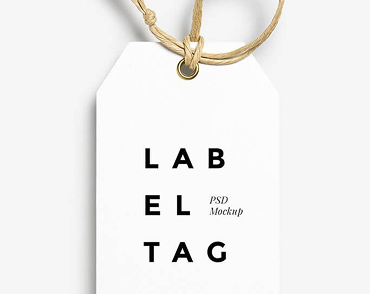
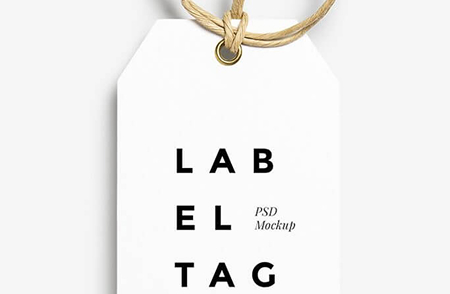
Added portfolio section to the portfolio page.

diff --git a/css/main.min.css b/css/main.min.css
@@ -1,1 +1,1 @@
-.logo{text-decoration:none}.first-word-logo{font-family:"Raleway",sans-serif;font-weight:700;font-size:26px;color:#2196f3}.second-word-logo{font-family:"Raleway",sans-serif;font-weight:700;font-size:26px;color:#000}.footer-logo{display:block;margin-bottom:20px}.footer-logo .second-word-logo{font-family:"Raleway",sans-serif;font-weight:700;font-size:26px;color:#fff}.form-button,.footer-button,.hero-button{min-width:200px;font-weight:700;font-size:16px;line-height:30px;letter-spacing:.06em;border-radius:4px;color:#fff;background-color:#2196f3;-webkit-box-shadow:0 4px 4px 0 rgba(0,0,0,.15);box-shadow:0 4px 4px 0 rgba(0,0,0,.15)}.subscribe-title,.join-in-title{display:block;margin-bottom:20px;font-size:14px;text-transform:uppercase;color:#fff}textarea:focus,.form-input:focus{outline:none;border:1px solid #2196f3}body{font-family:"Roboto",sans-serif;letter-spacing:.03em;color:#212121;background-color:#fff}.container{padding-left:15px;padding-right:15px;margin-left:auto;margin-right:auto}@media screen and (min-width: 480px){.container{width:480px}}@media screen and (min-width: 768px){.container{width:768px}}@media screen and (min-width: 1230px){.container{width:1230px}}.list{padding:0;margin:0;list-style:none}.current{color:#2196f3}.current::after{position:absolute;bottom:0;content:"";width:100%;height:4px;border-radius:2px;background:#2196f3}header{border-bottom:1px solid #ececec}header .header-nav{display:-webkit-box;display:-ms-flexbox;display:flex;-webkit-box-align:center;-ms-flex-align:center;align-items:center}.icon-menu{display:-webkit-box;display:-ms-flexbox;display:flex;margin-left:276px;margin-top:22px;margin-bottom:22px}.section-title{margin-top:0;margin-bottom:60px;font-size:36px;text-align:center}.hero{margin-bottom:94px;text-align:center}.overlay{max-width:1600px;min-height:600px;margin-left:auto;margin-right:auto;background-image:-webkit-gradient(linear, left top, right top, from(rgba(47, 48, 58, 0.8)), to(rgba(47, 48, 58, 0.8))),url("../images/hero-image.jpg");background-image:linear-gradient(to right, rgba(47, 48, 58, 0.8), rgba(47, 48, 58, 0.8)),url("../images/hero-image.jpg");background-color:#212121;background-size:cover;background-repeat:no-repeat;background-position:center}.hero-title{margin-top:0;margin-bottom:0;padding-top:200px;padding-bottom:30px;font-weight:900;font-size:44px;line-height:60px;letter-spacing:.06em;color:#fff}.hero-button{padding:10px 32px;margin-bottom:200px;cursor:pointer;border:none}.feature{margin-top:0;margin-bottom:60px}.feature-item:not(:last-child){margin-bottom:30px}.background{display:block;width:450px;height:120px;padding:25px 190px;margin-bottom:30px;background-color:#f5f4fa}.feature-title{margin-top:0;margin-bottom:10px;text-align:center;font-size:14px;text-transform:uppercase}.feature-description{margin-top:0;margin-bottom:0;font-size:14px;line-height:24px;color:#757575}@media(max-width: 1229px){.work{display:none}}.work{margin-top:0;margin-bottom:60px}.work-list{display:-webkit-box;display:-ms-flexbox;display:flex}.work-item{position:relative}.work-item+.work-item{margin-left:45px}.work-image{display:block}.work-description{position:absolute;bottom:0;display:-webkit-box;display:-ms-flexbox;display:flex;-webkit-box-align:center;-ms-flex-align:center;align-items:center;-webkit-box-pack:center;-ms-flex-pack:center;justify-content:center;width:100%;height:70px;margin-top:0;margin-bottom:0;font-weight:700;font-size:14px;text-transform:uppercase;color:#fff;background-color:rgba(47,48,58,.8)}.team{margin-bottom:60px;padding-top:60px;padding-bottom:60px;background-color:#f5f4fa}.team-unit{width:450px;height:482px;border-radius:0 0 4px 4px;-webkit-box-shadow:0 2px 1px 0 rgba(0,0,0,.2),0 1px 1px 0 rgba(0,0,0,.14),0 1px 3px 0 rgba(0,0,0,.12);box-shadow:0 2px 1px 0 rgba(0,0,0,.2),0 1px 1px 0 rgba(0,0,0,.14),0 1px 3px 0 rgba(0,0,0,.12);background-color:#fff}.team-image{margin-bottom:30px}.team-name{margin-top:0;margin-bottom:10px;font-weight:500;font-size:16px;text-align:center}.team-description{margin-top:0;margin-bottom:16px;font-size:16px;color:#757575;text-align:center}.social-networks{display:-webkit-box;display:-ms-flexbox;display:flex;-webkit-box-pack:center;-ms-flex-pack:center;justify-content:center;margin-top:0;margin-bottom:24px}.network-item+.network-item{margin-left:10px}.social-networks .link{display:-webkit-box;display:-ms-flexbox;display:flex;-webkit-box-align:center;-ms-flex-align:center;align-items:center;-webkit-box-pack:center;-ms-flex-pack:center;justify-content:center;width:44px;height:44px;-webkit-transition:color 250ms cubic-bezier(0.4, 0, 0.2, 1),background-color 250ms cubic-bezier(0.4, 0, 0.2, 1);transition:color 250ms cubic-bezier(0.4, 0, 0.2, 1),background-color 250ms cubic-bezier(0.4, 0, 0.2, 1);border-radius:50%;color:#afb1b8;background-color:#fff}.social-networks .link:hover,.social-networks .link:focus{color:#fff;background-color:#2196f3}.social-icon{fill:currentColor}.regular-customers{margin-bottom:60px}.customers-list{display:-webkit-box;display:-ms-flexbox;display:flex;-ms-flex-wrap:wrap;flex-wrap:wrap;gap:30px}.customers-item{width:calc((100% - 30px)/2)}.customer-link{display:-webkit-box;display:-ms-flexbox;display:flex;-webkit-box-align:center;-ms-flex-align:center;align-items:center;-webkit-box-pack:center;-ms-flex-pack:center;justify-content:center;width:210px;height:90px;-webkit-transition:color 250ms cubic-bezier(0.4, 0, 0.2, 1),border 250ms cubic-bezier(0.4, 0, 0.2, 1);transition:color 250ms cubic-bezier(0.4, 0, 0.2, 1),border 250ms cubic-bezier(0.4, 0, 0.2, 1);border:1px solid #afb1b8;border-radius:4px;color:#afb1b8}.customer-link:hover,.customer-link:focus{color:#2196f3;border:1px solid #2196f3}.customer-icon{fill:currentColor}.portfolio{margin-top:93px;margin-bottom:94px}.filters{display:-webkit-box;display:-ms-flexbox;display:flex;-webkit-box-pack:center;-ms-flex-pack:center;justify-content:center;margin-bottom:50px}.filter-item+.filter-item{margin-left:8px}.filters button{padding:6px 22px;-webkit-transition:color 250ms cubic-bezier(0.4, 0, 0.2, 1),background-color 250ms cubic-bezier(0.4, 0, 0.2, 1),-webkit-box-shadow 250ms cubic-bezier(0.4, 0, 0.2, 1);transition:color 250ms cubic-bezier(0.4, 0, 0.2, 1),background-color 250ms cubic-bezier(0.4, 0, 0.2, 1),-webkit-box-shadow 250ms cubic-bezier(0.4, 0, 0.2, 1);transition:box-shadow 250ms cubic-bezier(0.4, 0, 0.2, 1),color 250ms cubic-bezier(0.4, 0, 0.2, 1),background-color 250ms cubic-bezier(0.4, 0, 0.2, 1);transition:box-shadow 250ms cubic-bezier(0.4, 0, 0.2, 1),color 250ms cubic-bezier(0.4, 0, 0.2, 1),background-color 250ms cubic-bezier(0.4, 0, 0.2, 1),-webkit-box-shadow 250ms cubic-bezier(0.4, 0, 0.2, 1);text-decoration:none;font-weight:500;font-size:16px;line-height:26px;cursor:pointer;border:none;border-radius:4px;color:#212121;background-color:#f5f4fa}.filters button:hover,.filters button:focus{-webkit-box-shadow:0 2px 2px 0 rgba(0,0,0,.12),0 1px 2px 0 rgba(0,0,0,.08),0 3px 1px 0 rgba(0,0,0,.1);box-shadow:0 2px 2px 0 rgba(0,0,0,.12),0 1px 2px 0 rgba(0,0,0,.08),0 3px 1px 0 rgba(0,0,0,.1);color:#fff;background-color:#2196f3}.portfolio-list{display:-webkit-box;display:-ms-flexbox;display:flex;-ms-flex-wrap:wrap;flex-wrap:wrap}.portfolio-item{width:370px;height:404px;margin-right:45px;margin-bottom:45px}.portfolio-item:nth-child(3n){margin-right:0}.portfolio-item:nth-child(n+7){margin-bottom:0}.portfolio-link{display:block;text-decoration:none;color:inherit;-webkit-transition:-webkit-box-shadow 250ms cubic-bezier(0.4, 0, 0.2, 1);transition:-webkit-box-shadow 250ms cubic-bezier(0.4, 0, 0.2, 1);transition:box-shadow 250ms cubic-bezier(0.4, 0, 0.2, 1);transition:box-shadow 250ms cubic-bezier(0.4, 0, 0.2, 1), -webkit-box-shadow 250ms cubic-bezier(0.4, 0, 0.2, 1)}.portfolio-link:hover,.portfolio-link:focus{-webkit-box-shadow:1px 4px 6px 0 rgba(0,0,0,.16),0 4px 4px 0 rgba(0,0,0,.06),0 1px 1px 0 rgba(0,0,0,.12);box-shadow:1px 4px 6px 0 rgba(0,0,0,.16),0 4px 4px 0 rgba(0,0,0,.06),0 1px 1px 0 rgba(0,0,0,.12)}.top-card{position:relative;overflow:hidden}.portfolio-image{display:block}.portfolio-overlay{position:absolute;opacity:0;top:0;left:0;margin:0;padding:63px 24px;width:100%;height:100%;-webkit-transform:translateY(100%);transform:translateY(100%);-webkit-transition:opacity 250ms cubic-bezier(0.4, 0, 0.2, 1),-webkit-transform 250ms cubic-bezier(0.4, 0, 0.2, 1);transition:opacity 250ms cubic-bezier(0.4, 0, 0.2, 1),-webkit-transform 250ms cubic-bezier(0.4, 0, 0.2, 1);transition:opacity 250ms cubic-bezier(0.4, 0, 0.2, 1),transform 250ms cubic-bezier(0.4, 0, 0.2, 1);transition:opacity 250ms cubic-bezier(0.4, 0, 0.2, 1),transform 250ms cubic-bezier(0.4, 0, 0.2, 1),-webkit-transform 250ms cubic-bezier(0.4, 0, 0.2, 1);font-size:18px;line-height:28px;color:#fff;background:rgba(33,150,243,.9)}.portfolio-item:hover .portfolio-overlay,.portfolio-item:focus .portfolio-overlay{opacity:1;-webkit-transform:translateY(0);transform:translateY(0)}.bottom-card{padding:20px 24px;background-color:#fff;border-left:1px solid #eee;border-right:1px solid #eee;border-bottom:1px solid #eee}.portfolio-title{margin-top:0;margin-bottom:4px;font-size:18px;line-height:36px;letter-spacing:.06em}.portfolio-description{margin:0;font-size:16px;line-height:30px;color:#757575}footer{padding-top:60px;padding-bottom:60px;background-color:#2f303a}.footer-contacts{margin-bottom:60px;text-align:center}address{margin-bottom:8px;font-family:"Roboto",sans-serif;font-weight:400;font-size:14px;line-height:24px;color:#fff}.mail{margin-bottom:8px}.contacts .link{display:block;text-decoration:none;font-size:14px;line-height:24px;color:#afb1b8}.join-in{margin-bottom:60px}.join-in-title{text-align:center}.social-media{display:-webkit-box;display:-ms-flexbox;display:flex;-webkit-box-pack:center;-ms-flex-pack:center;justify-content:center}.social-media .item+.item{margin-left:10px}.social-media .link{display:-webkit-box;display:-ms-flexbox;display:flex;-webkit-box-align:center;-ms-flex-align:center;align-items:center;-webkit-box-pack:center;-ms-flex-pack:center;justify-content:center;width:44px;height:44px;-webkit-transition:background-color 250ms cubic-bezier(0.4, 0, 0.2, 1);transition:background-color 250ms cubic-bezier(0.4, 0, 0.2, 1);background-color:rgba(255,255,255,.1);border-radius:50%}.social-media .link:hover,.social-media .link:focus{background-color:#2196f3}.subscribe-title{text-align:center}.form-subscribe{width:570px}.footer-email{margin-bottom:20px;min-width:450px;min-height:50px;padding-left:16px;padding-top:15px;padding-bottom:15px;font-size:16px;line-height:20px;border:1px solid rgba(255,255,255,.3);border-radius:4px;-webkit-box-shadow:0 4px 4px 0 rgba(0,0,0,.15);box-shadow:0 4px 4px 0 rgba(0,0,0,.15);background:rgba(33,150,243,0);color:#fff}.footer-button{width:200px;position:relative;display:-webkit-box;display:-ms-flexbox;display:flex;-webkit-box-align:center;-ms-flex-align:center;align-items:center;margin-left:auto;margin-right:auto;padding-top:10px;padding-bottom:10px;padding-left:29px;text-decoration:none}.icon-send{position:absolute;top:50%;right:28px;-webkit-transform:translateY(-50%);transform:translateY(-50%)}.backdrop{position:fixed;top:0;left:0;width:100%;height:100%;opacity:1;-webkit-transition:opacity 250ms cubic-bezier(0.4, 0, 0.2, 1);transition:opacity 250ms cubic-bezier(0.4, 0, 0.2, 1);background-color:rgba(0,0,0,.2)}.backdrop.is-hidden{opacity:0;pointer-events:none}.backdrop.is-hidden .modal{-webkit-transform:translate(-50%, -50%) scale(0.9);transform:translate(-50%, -50%) scale(0.9)}.modal{position:absolute;top:50%;left:50%;min-width:528px;min-height:581px;-webkit-transform:translate(-50%, -50%) scale(1);transform:translate(-50%, -50%) scale(1);-webkit-transition:-webkit-transform 250ms cubic-bezier(0.4, 0, 0.2, 1);transition:-webkit-transform 250ms cubic-bezier(0.4, 0, 0.2, 1);transition:transform 250ms cubic-bezier(0.4, 0, 0.2, 1);transition:transform 250ms cubic-bezier(0.4, 0, 0.2, 1), -webkit-transform 250ms cubic-bezier(0.4, 0, 0.2, 1);-webkit-box-shadow:0 2px 1px 0 rgba(0,0,0,.2),0 1px 1px 0 rgba(0,0,0,.14),0 1px 3px 0 rgba(0,0,0,.12);box-shadow:0 2px 1px 0 rgba(0,0,0,.2),0 1px 1px 0 rgba(0,0,0,.14),0 1px 3px 0 rgba(0,0,0,.12);border-radius:4px;background:#fff}.link-close{display:inline-block;margin-left:490px;margin-right:8px;margin-top:8px;width:30px;height:30px;-webkit-transition:color 250ms cubic-bezier(0.4, 0, 0.2, 1);transition:color 250ms cubic-bezier(0.4, 0, 0.2, 1);color:#000;border-radius:50%}.link-close:hover,.link-close:focus{color:#2196f3}.icon-close{fill:currentColor}form{width:448px;margin-left:40px;margin-right:40px;margin-bottom:40px}.form-title{margin-top:0px;margin-bottom:30px;font-weight:700;font-size:20px;text-align:center}.form-field{position:relative;display:-webkit-box;display:-ms-flexbox;display:flex;-webkit-box-orient:vertical;-webkit-box-direction:normal;-ms-flex-direction:column;flex-direction:column;margin-bottom:28px}.form-input{width:448px;height:40px;margin:0;padding-top:11px;padding-bottom:11px;padding-left:42px;-webkit-transition:border 250ms cubic-bezier(0.4, 0, 0.2, 1);transition:border 250ms cubic-bezier(0.4, 0, 0.2, 1);border:1px solid rgba(33,33,33,.2);border-radius:4px;cursor:pointer}.form-label{position:absolute;top:50%;left:42px;-webkit-transform:translateY(-50%);transform:translateY(-50%);-webkit-transition:-webkit-transform 250ms cubic-bezier(0.4, 0, 0.2, 1);transition:-webkit-transform 250ms cubic-bezier(0.4, 0, 0.2, 1);transition:transform 250ms cubic-bezier(0.4, 0, 0.2, 1);transition:transform 250ms cubic-bezier(0.4, 0, 0.2, 1), -webkit-transform 250ms cubic-bezier(0.4, 0, 0.2, 1);font-weight:400;font-size:14px;letter-spacing:.01em;color:#757575}.form-input:not(:-moz-placeholder-shown)+.form-label{color:#2196f3;border-color:#2196f3;transform:translate(-23px, -40px);-moz-transition:transform 250ms cubic-bezier(0.4, 0, 0.2, 1);transition:transform 250ms cubic-bezier(0.4, 0, 0.2, 1)}.form-input:not(:-ms-input-placeholder)+.form-label{color:#2196f3;border-color:#2196f3;transform:translate(-23px, -40px);-ms-transition:transform 250ms cubic-bezier(0.4, 0, 0.2, 1);transition:transform 250ms cubic-bezier(0.4, 0, 0.2, 1)}.form-input:focus+.form-label,.form-input:not(:placeholder-shown)+.form-label{color:#2196f3;border-color:#2196f3;-webkit-transform:translate(-23px, -40px);transform:translate(-23px, -40px);-webkit-transition:-webkit-transform 250ms cubic-bezier(0.4, 0, 0.2, 1);transition:-webkit-transform 250ms cubic-bezier(0.4, 0, 0.2, 1);transition:transform 250ms cubic-bezier(0.4, 0, 0.2, 1);transition:transform 250ms cubic-bezier(0.4, 0, 0.2, 1), -webkit-transform 250ms cubic-bezier(0.4, 0, 0.2, 1)}.form-icon{position:absolute;top:50%;left:19px;-webkit-transform:translateY(-50%);transform:translateY(-50%);-webkit-transition:-webkit-transform 250ms cubic-bezier(0.4, 0, 0.2, 1);transition:-webkit-transform 250ms cubic-bezier(0.4, 0, 0.2, 1);transition:transform 250ms cubic-bezier(0.4, 0, 0.2, 1);transition:transform 250ms cubic-bezier(0.4, 0, 0.2, 1), -webkit-transform 250ms cubic-bezier(0.4, 0, 0.2, 1);fill:currentColor}.form-input:focus~.form-icon{color:#2196f3;-webkit-transition:color 250ms cubic-bezier(0.4, 0, 0.2, 1);transition:color 250ms cubic-bezier(0.4, 0, 0.2, 1)}textarea{width:448px;height:120px;margin-bottom:20px;padding:12px 10px;font-weight:400;font-size:14px;letter-spacing:.01em;color:#757575;border:1px solid rgba(33,33,33,.2);border-radius:4px;resize:none;color:#757575;cursor:pointer}.form-checkbox{display:-webkit-box;display:-ms-flexbox;display:flex;-webkit-box-align:center;-ms-flex-align:center;align-items:center;-webkit-box-pack:center;-ms-flex-pack:center;justify-content:center;padding:0;margin-bottom:30px;font-size:14px;line-height:24px;color:#757575}.checkbox{-webkit-appearance:none;-moz-appearance:none;appearance:none;position:absolute}.icon-check{display:inline-block;margin-right:4px;border:2px solid #212121;border-radius:2px}.checkbox:checked+.icon-check{background-color:#2196f3;border-color:#2196f3;background-origin:border-box;-webkit-transition:background-color 250ms cubic-bezier(0.4, 0, 0.2, 1),border-color 250ms cubic-bezier(0.4, 0, 0.2, 1);transition:background-color 250ms cubic-bezier(0.4, 0, 0.2, 1),border-color 250ms cubic-bezier(0.4, 0, 0.2, 1)}.checkbox-link{color:#2196f3}.form-button{display:block;padding:10px 55px;margin-left:auto;margin-right:auto;cursor:pointer;border:none}/*# sourceMappingURL=main.min.css.map */
+.logo{text-decoration:none}.first-word-logo{font-family:"Raleway",sans-serif;font-weight:700;font-size:26px;color:#2196f3}.second-word-logo{font-family:"Raleway",sans-serif;font-weight:700;font-size:26px;color:#000}.footer-logo{display:block;margin-bottom:20px}.footer-logo .second-word-logo{font-family:"Raleway",sans-serif;font-weight:700;font-size:26px;color:#fff}.form-button,.footer-button,.hero-button{min-width:200px;font-weight:700;font-size:16px;line-height:30px;letter-spacing:.06em;border-radius:4px;color:#fff;background-color:#2196f3;-webkit-box-shadow:0 4px 4px 0 rgba(0,0,0,.15);box-shadow:0 4px 4px 0 rgba(0,0,0,.15)}.subscribe-title,.join-in-title{display:block;margin-bottom:20px;font-size:14px;text-transform:uppercase;color:#fff}textarea:focus,.form-input:focus{outline:none;border:1px solid #2196f3}body{font-family:"Roboto",sans-serif;letter-spacing:.03em;color:#212121;background-color:#fff}.container{padding-left:15px;padding-right:15px;margin-left:auto;margin-right:auto}@media screen and (min-width: 480px){.container{width:480px}}@media screen and (min-width: 768px){.container{width:768px}}@media screen and (min-width: 1230px){.container{width:1230px}}.list{padding:0;margin:0;list-style:none}.current{color:#2196f3}.current::after{position:absolute;bottom:0;content:"";width:100%;height:4px;border-radius:2px;background:#2196f3}header{border-bottom:1px solid #ececec}header .header-nav{display:-webkit-box;display:-ms-flexbox;display:flex;-webkit-box-align:center;-ms-flex-align:center;align-items:center}.icon-menu{display:-webkit-box;display:-ms-flexbox;display:flex;margin-left:276px;margin-top:22px;margin-bottom:22px}.section-title{margin-top:0;margin-bottom:60px;font-size:36px;text-align:center}.hero{margin-bottom:94px;text-align:center}.overlay{max-width:1600px;min-height:600px;margin-left:auto;margin-right:auto;background-image:-webkit-gradient(linear, left top, right top, from(rgba(47, 48, 58, 0.8)), to(rgba(47, 48, 58, 0.8))),url("../images/hero-image.jpg");background-image:linear-gradient(to right, rgba(47, 48, 58, 0.8), rgba(47, 48, 58, 0.8)),url("../images/hero-image.jpg");background-color:#212121;background-size:cover;background-repeat:no-repeat;background-position:center}.hero-title{margin-top:0;margin-bottom:0;padding-top:200px;padding-bottom:30px;font-weight:900;font-size:44px;line-height:60px;letter-spacing:.06em;color:#fff}.hero-button{padding:10px 32px;margin-bottom:200px;cursor:pointer;border:none}.feature{margin-top:0;margin-bottom:60px}.feature-item:not(:last-child){margin-bottom:30px}.background{display:block;width:450px;height:120px;padding:25px 190px;margin-bottom:30px;background-color:#f5f4fa}.feature-title{margin-top:0;margin-bottom:10px;text-align:center;font-size:14px;text-transform:uppercase}.feature-description{margin-top:0;margin-bottom:0;font-size:14px;line-height:24px;color:#757575}@media(max-width: 1229px){.work{display:none}}.work{margin-top:0;margin-bottom:60px}.work-list{display:-webkit-box;display:-ms-flexbox;display:flex}.work-item{position:relative}.work-item+.work-item{margin-left:45px}.work-image{display:block}.work-description{position:absolute;bottom:0;display:-webkit-box;display:-ms-flexbox;display:flex;-webkit-box-align:center;-ms-flex-align:center;align-items:center;-webkit-box-pack:center;-ms-flex-pack:center;justify-content:center;width:100%;height:70px;margin-top:0;margin-bottom:0;font-weight:700;font-size:14px;text-transform:uppercase;color:#fff;background-color:rgba(47,48,58,.8)}.team{margin-bottom:60px;padding-top:60px;padding-bottom:60px;background-color:#f5f4fa}.team-unit{width:450px;height:482px;border-radius:0 0 4px 4px;-webkit-box-shadow:0 2px 1px 0 rgba(0,0,0,.2),0 1px 1px 0 rgba(0,0,0,.14),0 1px 3px 0 rgba(0,0,0,.12);box-shadow:0 2px 1px 0 rgba(0,0,0,.2),0 1px 1px 0 rgba(0,0,0,.14),0 1px 3px 0 rgba(0,0,0,.12);background-color:#fff}.team-image{margin-bottom:30px}.team-name{margin-top:0;margin-bottom:10px;font-weight:500;font-size:16px;text-align:center}.team-description{margin-top:0;margin-bottom:16px;font-size:16px;color:#757575;text-align:center}.social-networks{display:-webkit-box;display:-ms-flexbox;display:flex;-webkit-box-pack:center;-ms-flex-pack:center;justify-content:center;margin-top:0;margin-bottom:24px}.network-item+.network-item{margin-left:10px}.social-networks .link{display:-webkit-box;display:-ms-flexbox;display:flex;-webkit-box-align:center;-ms-flex-align:center;align-items:center;-webkit-box-pack:center;-ms-flex-pack:center;justify-content:center;width:44px;height:44px;-webkit-transition:color 250ms cubic-bezier(0.4, 0, 0.2, 1),background-color 250ms cubic-bezier(0.4, 0, 0.2, 1);transition:color 250ms cubic-bezier(0.4, 0, 0.2, 1),background-color 250ms cubic-bezier(0.4, 0, 0.2, 1);border-radius:50%;color:#afb1b8;background-color:#fff}.social-networks .link:hover,.social-networks .link:focus{color:#fff;background-color:#2196f3}.social-icon{fill:currentColor}.regular-customers{margin-bottom:60px}.customers-list{display:-webkit-box;display:-ms-flexbox;display:flex;-ms-flex-wrap:wrap;flex-wrap:wrap;gap:30px}.customers-item{width:calc((100% - 30px)/2)}.customer-link{display:-webkit-box;display:-ms-flexbox;display:flex;-webkit-box-align:center;-ms-flex-align:center;align-items:center;-webkit-box-pack:center;-ms-flex-pack:center;justify-content:center;width:210px;height:90px;-webkit-transition:color 250ms cubic-bezier(0.4, 0, 0.2, 1),border 250ms cubic-bezier(0.4, 0, 0.2, 1);transition:color 250ms cubic-bezier(0.4, 0, 0.2, 1),border 250ms cubic-bezier(0.4, 0, 0.2, 1);border:1px solid #afb1b8;border-radius:4px;color:#afb1b8}.customer-link:hover,.customer-link:focus{color:#2196f3;border:1px solid #2196f3}.customer-icon{fill:currentColor}.portfolio{margin-top:60px;margin-bottom:60px}.filters{display:-webkit-box;display:-ms-flexbox;display:flex;-ms-flex-wrap:wrap;flex-wrap:wrap;max-width:362px;margin-bottom:40px;gap:15px 8px}.filters button{padding:6px 22px;-webkit-transition:color 250ms cubic-bezier(0.4, 0, 0.2, 1),background-color 250ms cubic-bezier(0.4, 0, 0.2, 1),-webkit-box-shadow 250ms cubic-bezier(0.4, 0, 0.2, 1);transition:color 250ms cubic-bezier(0.4, 0, 0.2, 1),background-color 250ms cubic-bezier(0.4, 0, 0.2, 1),-webkit-box-shadow 250ms cubic-bezier(0.4, 0, 0.2, 1);transition:box-shadow 250ms cubic-bezier(0.4, 0, 0.2, 1),color 250ms cubic-bezier(0.4, 0, 0.2, 1),background-color 250ms cubic-bezier(0.4, 0, 0.2, 1);transition:box-shadow 250ms cubic-bezier(0.4, 0, 0.2, 1),color 250ms cubic-bezier(0.4, 0, 0.2, 1),background-color 250ms cubic-bezier(0.4, 0, 0.2, 1),-webkit-box-shadow 250ms cubic-bezier(0.4, 0, 0.2, 1);text-decoration:none;font-weight:500;font-size:16px;line-height:26px;cursor:pointer;border:none;border-radius:4px;color:#212121;background-color:#f5f4fa}.filters button:hover,.filters button:focus{-webkit-box-shadow:0 2px 2px 0 rgba(0,0,0,.12),0 1px 2px 0 rgba(0,0,0,.08),0 3px 1px 0 rgba(0,0,0,.1);box-shadow:0 2px 2px 0 rgba(0,0,0,.12),0 1px 2px 0 rgba(0,0,0,.08),0 3px 1px 0 rgba(0,0,0,.1);color:#fff;background-color:#2196f3}.portfolio-list{display:-webkit-box;display:-ms-flexbox;display:flex;-ms-flex-wrap:wrap;flex-wrap:wrap}.portfolio-item{width:450px;height:404px;margin-bottom:30px}.portfolio-item:last-child{margin-bottom:0}.portfolio-link{display:block;text-decoration:none;color:inherit;-webkit-transition:-webkit-box-shadow 250ms cubic-bezier(0.4, 0, 0.2, 1);transition:-webkit-box-shadow 250ms cubic-bezier(0.4, 0, 0.2, 1);transition:box-shadow 250ms cubic-bezier(0.4, 0, 0.2, 1);transition:box-shadow 250ms cubic-bezier(0.4, 0, 0.2, 1), -webkit-box-shadow 250ms cubic-bezier(0.4, 0, 0.2, 1)}.portfolio-link:hover,.portfolio-link:focus{-webkit-box-shadow:1px 4px 6px 0 rgba(0,0,0,.16),0 4px 4px 0 rgba(0,0,0,.06),0 1px 1px 0 rgba(0,0,0,.12);box-shadow:1px 4px 6px 0 rgba(0,0,0,.16),0 4px 4px 0 rgba(0,0,0,.06),0 1px 1px 0 rgba(0,0,0,.12)}.top-card{position:relative;overflow:hidden}.portfolio-image{display:block}.portfolio-overlay{position:absolute;opacity:0;top:0;left:0;margin:0;padding:63px 24px;width:100%;height:100%;-webkit-transform:translateY(100%);transform:translateY(100%);-webkit-transition:opacity 250ms cubic-bezier(0.4, 0, 0.2, 1),-webkit-transform 250ms cubic-bezier(0.4, 0, 0.2, 1);transition:opacity 250ms cubic-bezier(0.4, 0, 0.2, 1),-webkit-transform 250ms cubic-bezier(0.4, 0, 0.2, 1);transition:opacity 250ms cubic-bezier(0.4, 0, 0.2, 1),transform 250ms cubic-bezier(0.4, 0, 0.2, 1);transition:opacity 250ms cubic-bezier(0.4, 0, 0.2, 1),transform 250ms cubic-bezier(0.4, 0, 0.2, 1),-webkit-transform 250ms cubic-bezier(0.4, 0, 0.2, 1);font-size:18px;line-height:28px;color:#fff;background:rgba(33,150,243,.9)}.portfolio-item:hover .portfolio-overlay,.portfolio-item:focus .portfolio-overlay{opacity:1;-webkit-transform:translateY(0);transform:translateY(0)}.bottom-card{padding:20px 24px;background-color:#fff;border-left:1px solid #eee;border-right:1px solid #eee;border-bottom:1px solid #eee}.portfolio-title{margin-top:0;margin-bottom:4px;font-size:18px;line-height:36px;letter-spacing:.06em}.portfolio-description{margin:0;font-size:16px;line-height:30px;color:#757575}footer{padding-top:60px;padding-bottom:60px;background-color:#2f303a}.footer-contacts{margin-bottom:60px;text-align:center}address{margin-bottom:8px;font-family:"Roboto",sans-serif;font-weight:400;font-size:14px;line-height:24px;color:#fff}.mail{margin-bottom:8px}.contacts .link{display:block;text-decoration:none;font-size:14px;line-height:24px;color:#afb1b8}.join-in{margin-bottom:60px}.join-in-title{text-align:center}.social-media{display:-webkit-box;display:-ms-flexbox;display:flex;-webkit-box-pack:center;-ms-flex-pack:center;justify-content:center}.social-media .item+.item{margin-left:10px}.social-media .link{display:-webkit-box;display:-ms-flexbox;display:flex;-webkit-box-align:center;-ms-flex-align:center;align-items:center;-webkit-box-pack:center;-ms-flex-pack:center;justify-content:center;width:44px;height:44px;-webkit-transition:background-color 250ms cubic-bezier(0.4, 0, 0.2, 1);transition:background-color 250ms cubic-bezier(0.4, 0, 0.2, 1);background-color:rgba(255,255,255,.1);border-radius:50%}.social-media .link:hover,.social-media .link:focus{background-color:#2196f3}.subscribe-title{text-align:center}.form-subscribe{width:570px}.footer-email{margin-bottom:20px;min-width:450px;min-height:50px;padding-left:16px;padding-top:15px;padding-bottom:15px;font-size:16px;line-height:20px;border:1px solid rgba(255,255,255,.3);border-radius:4px;-webkit-box-shadow:0 4px 4px 0 rgba(0,0,0,.15);box-shadow:0 4px 4px 0 rgba(0,0,0,.15);background:rgba(33,150,243,0);color:#fff}.footer-button{width:200px;position:relative;display:-webkit-box;display:-ms-flexbox;display:flex;-webkit-box-align:center;-ms-flex-align:center;align-items:center;margin-left:auto;margin-right:auto;padding-top:10px;padding-bottom:10px;padding-left:29px;text-decoration:none}.icon-send{position:absolute;top:50%;right:28px;-webkit-transform:translateY(-50%);transform:translateY(-50%)}.backdrop{position:fixed;top:0;left:0;width:100%;height:100%;opacity:1;-webkit-transition:opacity 250ms cubic-bezier(0.4, 0, 0.2, 1);transition:opacity 250ms cubic-bezier(0.4, 0, 0.2, 1);background-color:rgba(0,0,0,.2)}.backdrop.is-hidden{opacity:0;pointer-events:none}.backdrop.is-hidden .modal{-webkit-transform:translate(-50%, -50%) scale(0.9);transform:translate(-50%, -50%) scale(0.9)}.modal{position:absolute;top:50%;left:50%;min-width:528px;min-height:581px;-webkit-transform:translate(-50%, -50%) scale(1);transform:translate(-50%, -50%) scale(1);-webkit-transition:-webkit-transform 250ms cubic-bezier(0.4, 0, 0.2, 1);transition:-webkit-transform 250ms cubic-bezier(0.4, 0, 0.2, 1);transition:transform 250ms cubic-bezier(0.4, 0, 0.2, 1);transition:transform 250ms cubic-bezier(0.4, 0, 0.2, 1), -webkit-transform 250ms cubic-bezier(0.4, 0, 0.2, 1);-webkit-box-shadow:0 2px 1px 0 rgba(0,0,0,.2),0 1px 1px 0 rgba(0,0,0,.14),0 1px 3px 0 rgba(0,0,0,.12);box-shadow:0 2px 1px 0 rgba(0,0,0,.2),0 1px 1px 0 rgba(0,0,0,.14),0 1px 3px 0 rgba(0,0,0,.12);border-radius:4px;background:#fff}.link-close{display:inline-block;margin-left:490px;margin-right:8px;margin-top:8px;width:30px;height:30px;-webkit-transition:color 250ms cubic-bezier(0.4, 0, 0.2, 1);transition:color 250ms cubic-bezier(0.4, 0, 0.2, 1);color:#000;border-radius:50%}.link-close:hover,.link-close:focus{color:#2196f3}.icon-close{fill:currentColor}form{width:448px;margin-left:40px;margin-right:40px;margin-bottom:40px}.form-title{margin-top:0px;margin-bottom:30px;font-weight:700;font-size:20px;text-align:center}.form-field{position:relative;display:-webkit-box;display:-ms-flexbox;display:flex;-webkit-box-orient:vertical;-webkit-box-direction:normal;-ms-flex-direction:column;flex-direction:column;margin-bottom:28px}.form-input{width:448px;height:40px;margin:0;padding-top:11px;padding-bottom:11px;padding-left:42px;-webkit-transition:border 250ms cubic-bezier(0.4, 0, 0.2, 1);transition:border 250ms cubic-bezier(0.4, 0, 0.2, 1);border:1px solid rgba(33,33,33,.2);border-radius:4px;cursor:pointer}.form-label{position:absolute;top:50%;left:42px;-webkit-transform:translateY(-50%);transform:translateY(-50%);-webkit-transition:-webkit-transform 250ms cubic-bezier(0.4, 0, 0.2, 1);transition:-webkit-transform 250ms cubic-bezier(0.4, 0, 0.2, 1);transition:transform 250ms cubic-bezier(0.4, 0, 0.2, 1);transition:transform 250ms cubic-bezier(0.4, 0, 0.2, 1), -webkit-transform 250ms cubic-bezier(0.4, 0, 0.2, 1);font-weight:400;font-size:14px;letter-spacing:.01em;color:#757575}.form-input:not(:-moz-placeholder-shown)+.form-label{color:#2196f3;border-color:#2196f3;transform:translate(-23px, -40px);-moz-transition:transform 250ms cubic-bezier(0.4, 0, 0.2, 1);transition:transform 250ms cubic-bezier(0.4, 0, 0.2, 1)}.form-input:not(:-ms-input-placeholder)+.form-label{color:#2196f3;border-color:#2196f3;transform:translate(-23px, -40px);-ms-transition:transform 250ms cubic-bezier(0.4, 0, 0.2, 1);transition:transform 250ms cubic-bezier(0.4, 0, 0.2, 1)}.form-input:focus+.form-label,.form-input:not(:placeholder-shown)+.form-label{color:#2196f3;border-color:#2196f3;-webkit-transform:translate(-23px, -40px);transform:translate(-23px, -40px);-webkit-transition:-webkit-transform 250ms cubic-bezier(0.4, 0, 0.2, 1);transition:-webkit-transform 250ms cubic-bezier(0.4, 0, 0.2, 1);transition:transform 250ms cubic-bezier(0.4, 0, 0.2, 1);transition:transform 250ms cubic-bezier(0.4, 0, 0.2, 1), -webkit-transform 250ms cubic-bezier(0.4, 0, 0.2, 1)}.form-icon{position:absolute;top:50%;left:19px;-webkit-transform:translateY(-50%);transform:translateY(-50%);-webkit-transition:-webkit-transform 250ms cubic-bezier(0.4, 0, 0.2, 1);transition:-webkit-transform 250ms cubic-bezier(0.4, 0, 0.2, 1);transition:transform 250ms cubic-bezier(0.4, 0, 0.2, 1);transition:transform 250ms cubic-bezier(0.4, 0, 0.2, 1), -webkit-transform 250ms cubic-bezier(0.4, 0, 0.2, 1);fill:currentColor}.form-input:focus~.form-icon{color:#2196f3;-webkit-transition:color 250ms cubic-bezier(0.4, 0, 0.2, 1);transition:color 250ms cubic-bezier(0.4, 0, 0.2, 1)}textarea{width:448px;height:120px;margin-bottom:20px;padding:12px 10px;font-weight:400;font-size:14px;letter-spacing:.01em;color:#757575;border:1px solid rgba(33,33,33,.2);border-radius:4px;resize:none;color:#757575;cursor:pointer}.form-checkbox{display:-webkit-box;display:-ms-flexbox;display:flex;-webkit-box-align:center;-ms-flex-align:center;align-items:center;-webkit-box-pack:center;-ms-flex-pack:center;justify-content:center;padding:0;margin-bottom:30px;font-size:14px;line-height:24px;color:#757575}.checkbox{-webkit-appearance:none;-moz-appearance:none;appearance:none;position:absolute}.icon-check{display:inline-block;margin-right:4px;border:2px solid #212121;border-radius:2px}.checkbox:checked+.icon-check{background-color:#2196f3;border-color:#2196f3;background-origin:border-box;-webkit-transition:background-color 250ms cubic-bezier(0.4, 0, 0.2, 1),border-color 250ms cubic-bezier(0.4, 0, 0.2, 1);transition:background-color 250ms cubic-bezier(0.4, 0, 0.2, 1),border-color 250ms cubic-bezier(0.4, 0, 0.2, 1)}.checkbox-link{color:#2196f3}.form-button{display:block;padding:10px 55px;margin-left:auto;margin-right:auto;cursor:pointer;border:none}/*# sourceMappingURL=main.min.css.map */

diff --git a/portfolio.html b/portfolio.html
@@ -63,7 +63,7 @@
                   <img
                     class="portfolio-image"
                     src="./images/technocrack.jpg"
-                    width="370"
+                    width="450"
                     alt="Лептоп"
                   />
                   <p class="portfolio-overlay">
@@ -84,7 +84,7 @@
                   <img
                     class="portfolio-image"
                     src="./images/poster-new-orlean-vs-golden-star.jpg"
-                    width="370"
+                    width="450"
                     alt="Два баскетболісти"
                   />
                   <p class="portfolio-overlay">
@@ -107,7 +107,7 @@
                   <img
                     class="portfolio-image"
                     src="./images/restaurant-sea-food.jpg"
-                    width="370"
+                    width="450"
                     alt="Логотип"
                   />
                   <p class="portfolio-overlay">
@@ -128,7 +128,7 @@
                   <img
                     class="portfolio-image"
                     src="./images/project-prime.jpg"
-                    width="370"
+                    width="450"
                     alt="Навушники"
                   />
                   <p class="portfolio-overlay">
@@ -149,7 +149,7 @@
                   <img
                     class="portfolio-image"
                     src="./images/project-boxes.jpg"
-                    width="370"
+                    width="450"
                     alt="Коробки"
                   />
                   <p class="portfolio-overlay">
@@ -170,7 +170,7 @@
                   <img
                     class="portfolio-image"
                     src="./images/inspiration-has-no-borders.jpg"
-                    width="370"
+                    width="450"
                     alt="Монітор"
                   />
                   <p class="portfolio-overlay">
@@ -191,7 +191,7 @@
                   <img
                     class="portfolio-image"
                     src="./images/limited-edition.jpg"
-                    width="370"
+                    width="450"
                     alt="Журнал"
                   />
                   <p class="portfolio-overlay">
@@ -212,7 +212,7 @@
                   <img
                     class="portfolio-image"
                     src="./images/project-lab.jpg"
-                    width="370"
+                    width="450"
                     alt="Етикетка"
                   />
                   <p class="portfolio-overlay">
@@ -233,7 +233,7 @@
                   <img
                     class="portfolio-image"
                     src="./images/growing-business.jpg"
-                    width="370"
+                    width="450"
                     alt="Робота за лептопом"
                   />
                   <p class="portfolio-overlay">

diff --git a/css/main.css b/css/main.css
@@ -395,8 +395,8 @@ header .header-nav {
 
 /*-------------------------PORTFOLIO--------------------*/
 .portfolio {
-  margin-top: 93px;
-  margin-bottom: 94px;
+  margin-top: 60px;
+  margin-bottom: 60px;
 }
 
 /* Filters */
@@ -404,14 +404,11 @@ header .header-nav {
   display: -webkit-box;
   display: -ms-flexbox;
   display: flex;
-  -webkit-box-pack: center;
-      -ms-flex-pack: center;
-          justify-content: center;
-  margin-bottom: 50px;
-}
-
-.filter-item + .filter-item {
-  margin-left: 8px;
+  -ms-flex-wrap: wrap;
+      flex-wrap: wrap;
+  max-width: 362px;
+  margin-bottom: 40px;
+  gap: 15px 8px;
 }
 
 .filters button {
@@ -447,15 +444,11 @@ header .header-nav {
 }
 
 .portfolio-item {
-  width: 370px;
+  width: 450px;
   height: 404px;
-  margin-right: 45px;
-  margin-bottom: 45px;
+  margin-bottom: 30px;
 }
-.portfolio-item:nth-child(3n) {
-  margin-right: 0;
-}
-.portfolio-item:nth-child(n+7) {
+.portfolio-item:last-child {
   margin-bottom: 0;
 }
 

diff --git a/sass/components/_portfolio-page.scss b/sass/components/_portfolio-page.scss
@@ -1,19 +1,18 @@
 /*-------------------------PORTFOLIO--------------------*/
 
 .portfolio {
-  margin-top: 93px;
-  margin-bottom: 94px;
+  margin-top: 60px;
+  margin-bottom: 60px;
 }
 
 /* Filters */
 .filters {
   display: flex;
-  justify-content: center;
-  margin-bottom: 50px;
-}
+  flex-wrap: wrap;
+  max-width: 362px;
+  margin-bottom: 40px;
 
-.filter-item + .filter-item {
-  margin-left: 8px;
+  gap: 15px 8px;
 }
 
 .filters button {
@@ -48,16 +47,11 @@
 }
 
 .portfolio-item {
-  width: 370px;
+  width: 450px;
   height: 404px;
-  margin-right: 45px;
-  margin-bottom: 45px;
+  margin-bottom: 30px;
 
-  &:nth-child(3n) {
-    margin-right: 0;
-  }
-
-  &:nth-child(n + 7) {
+  &:last-child {
     margin-bottom: 0;
   }
 }

diff --git a/sass/components/_global.scss b/sass/components/_global.scss
@@ -7,7 +7,6 @@ body {
 
 /* Container */
 .container {
-  // width: 1230px;
   padding-left: 15px;
   padding-right: 15px;
   margin-left: auto;
